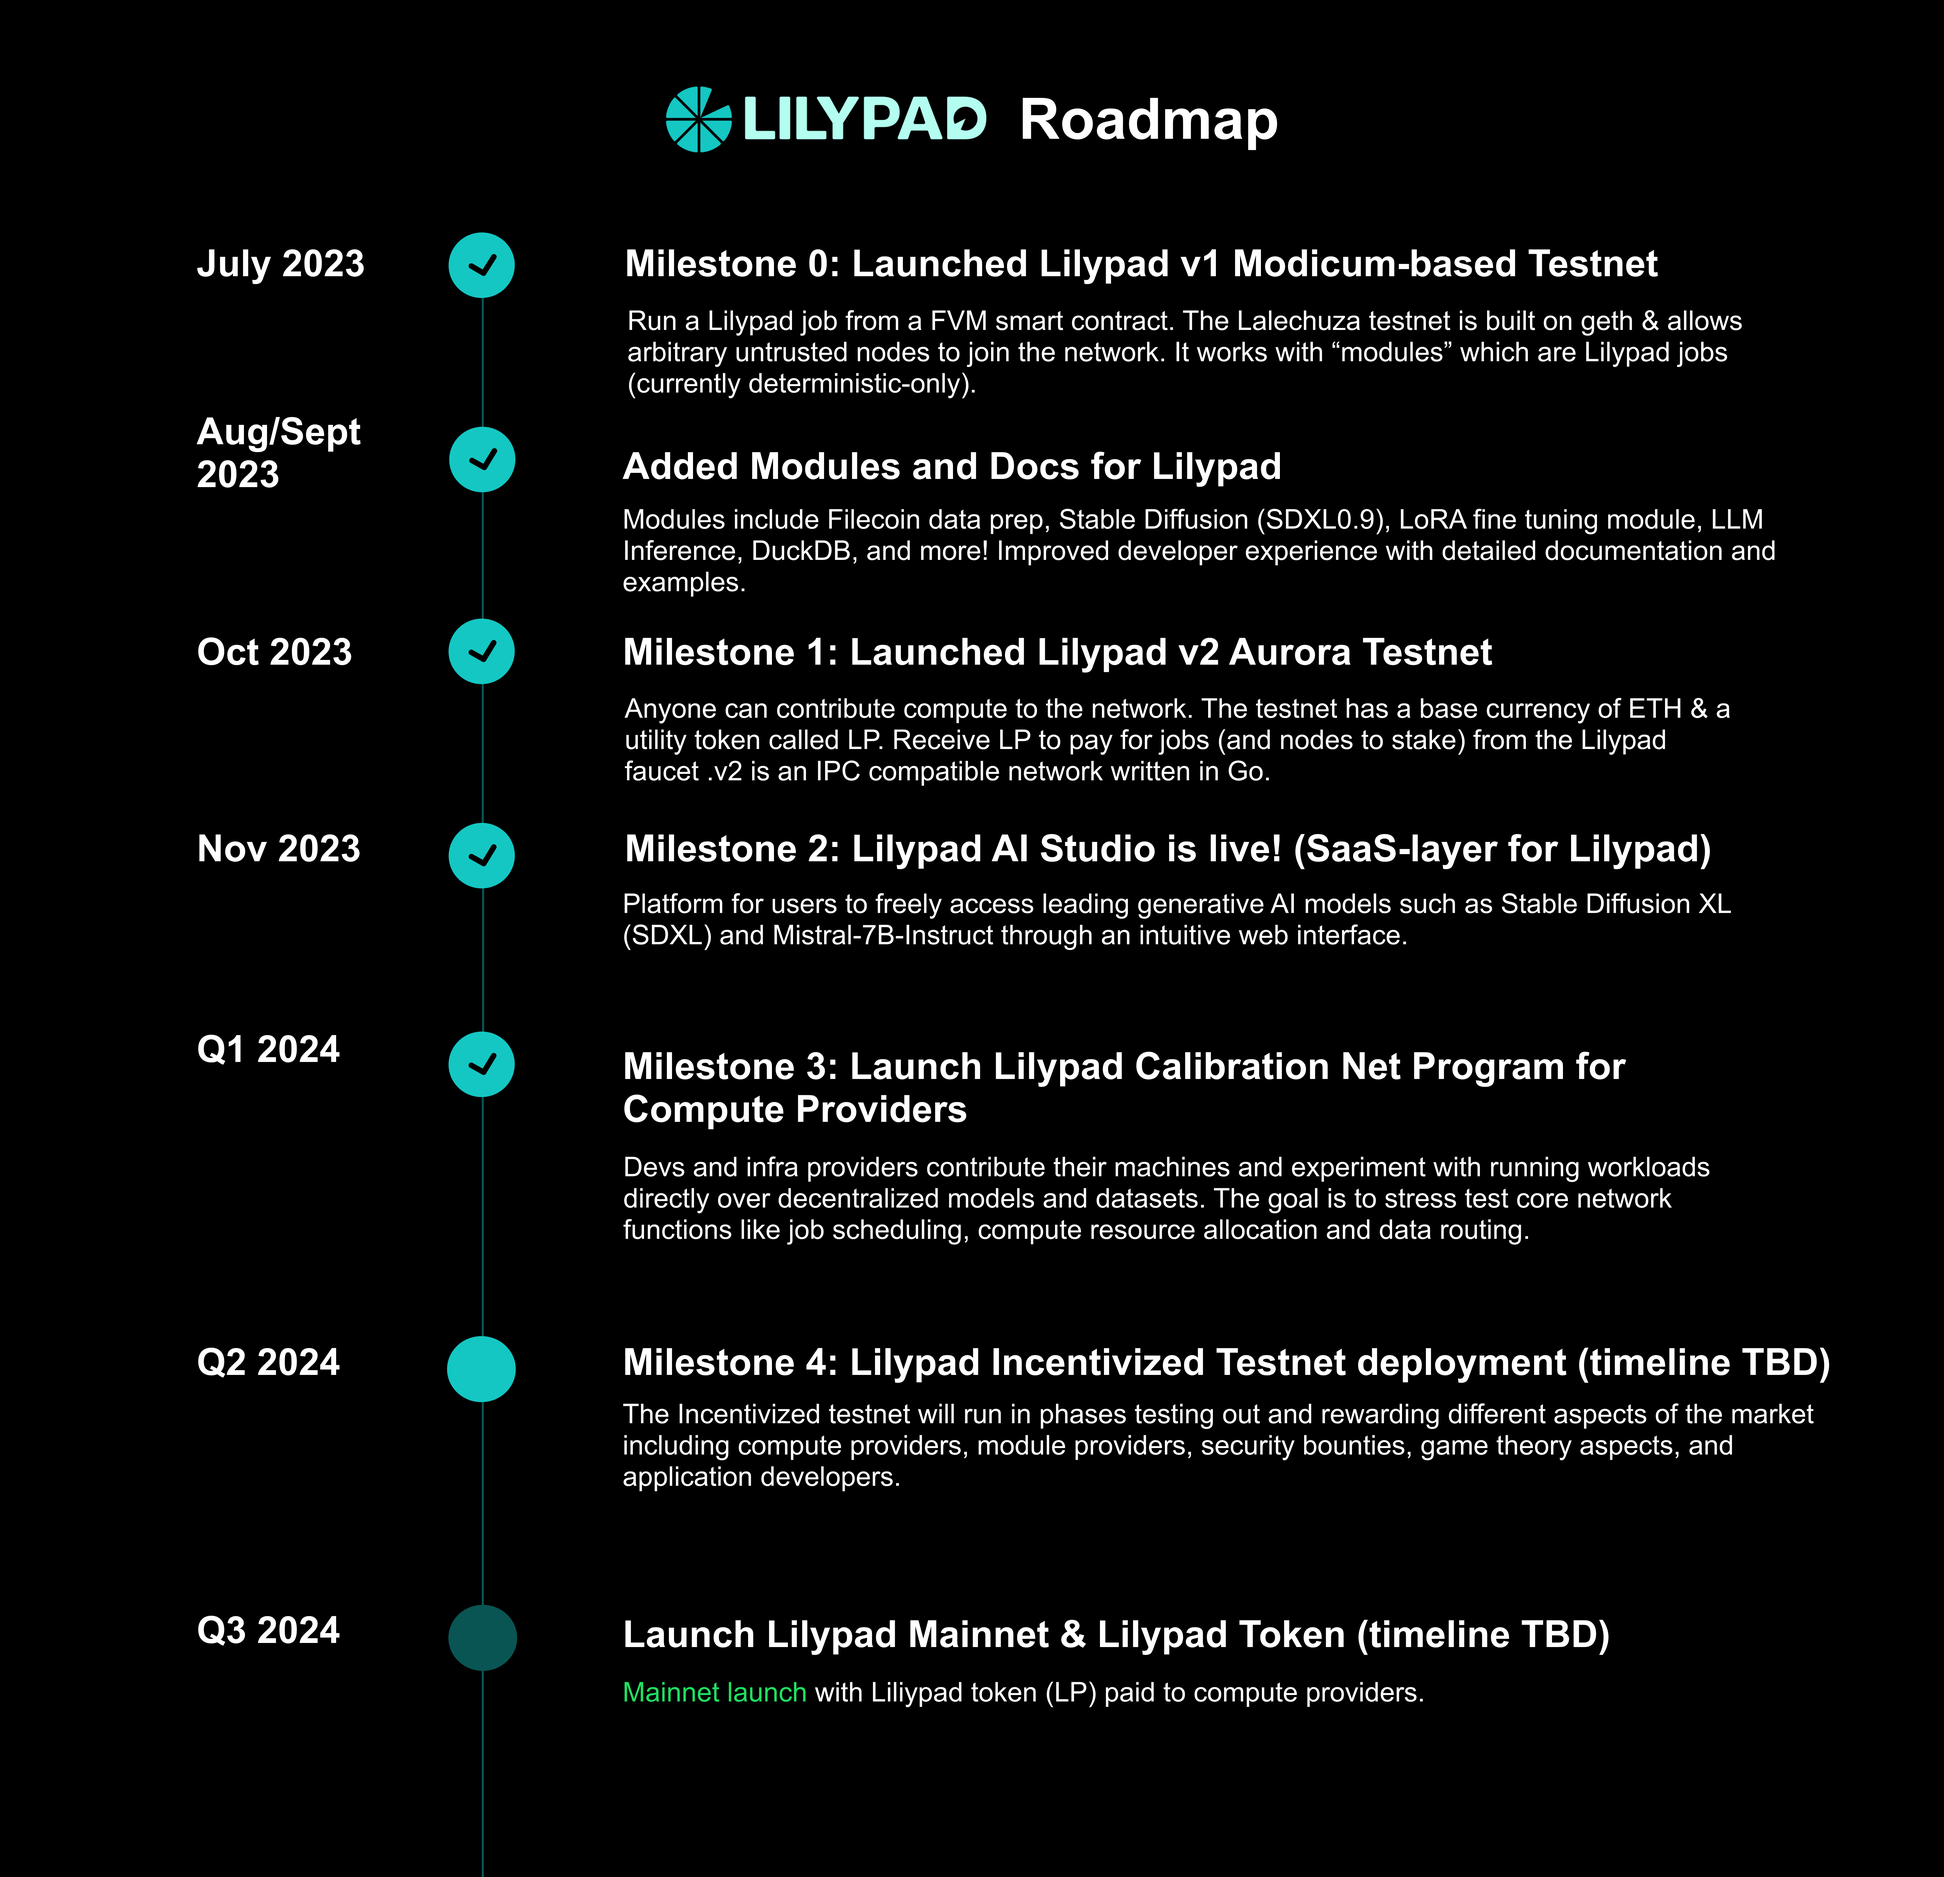
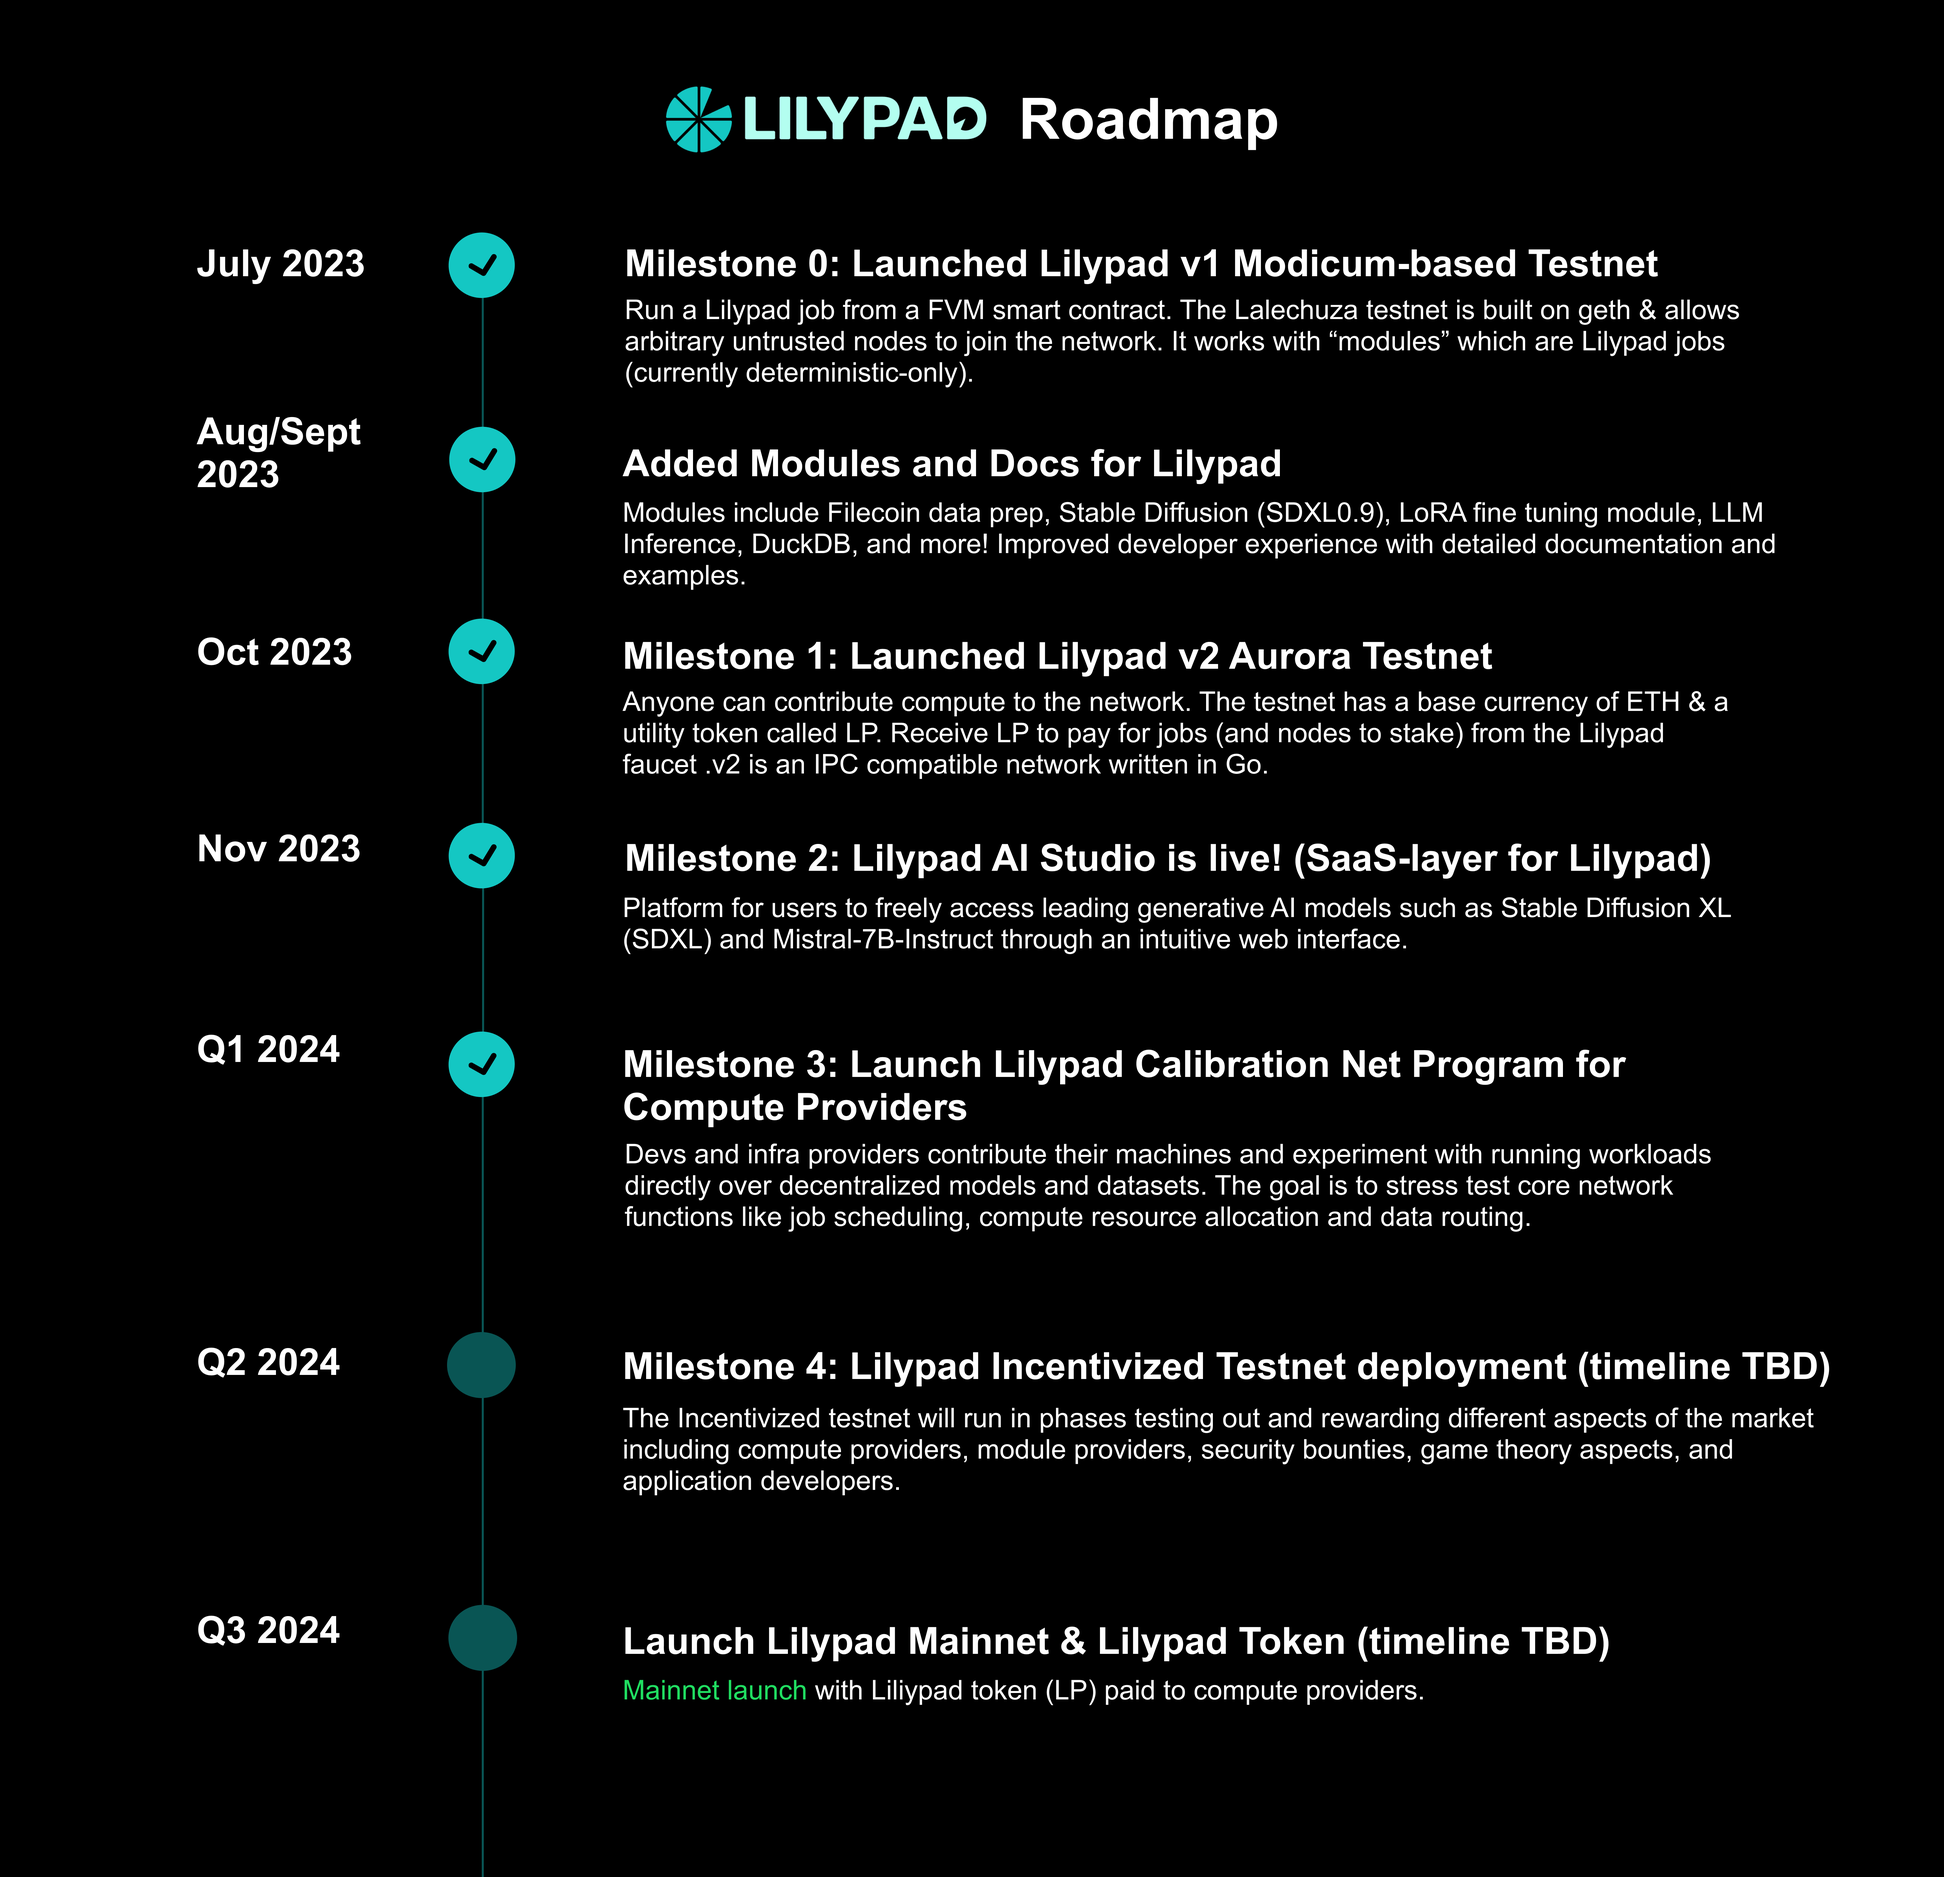
GITBOOK-201: improved roadmap image

diff --git a/lilypad/README.md b/lilypad/README.md
@@ -30,7 +30,7 @@ Lilypad is now at **v3: Milkyway Testnet!** :tada: [Try it out](https://docs.lil
 
 ## Lilypad Roadmap
 
-<figure><img src=".gitbook/assets/roadmap (1).png" alt=""><figcaption></figcaption></figure>
+<figure><img src=".gitbook/assets/roadmap.png" alt=""><figcaption></figcaption></figure>
 
 #### Lilypad v1
 
